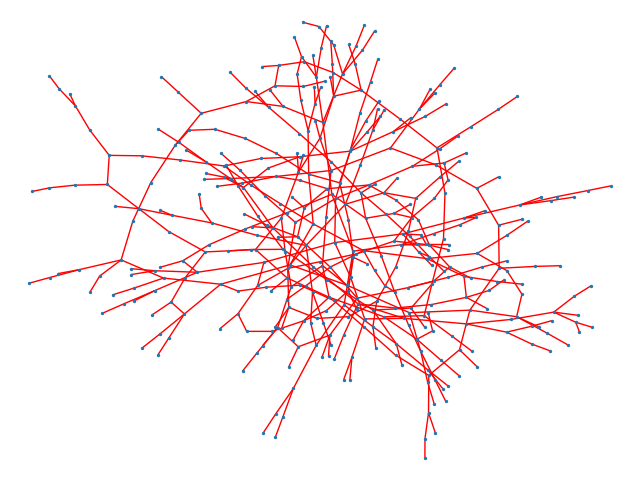
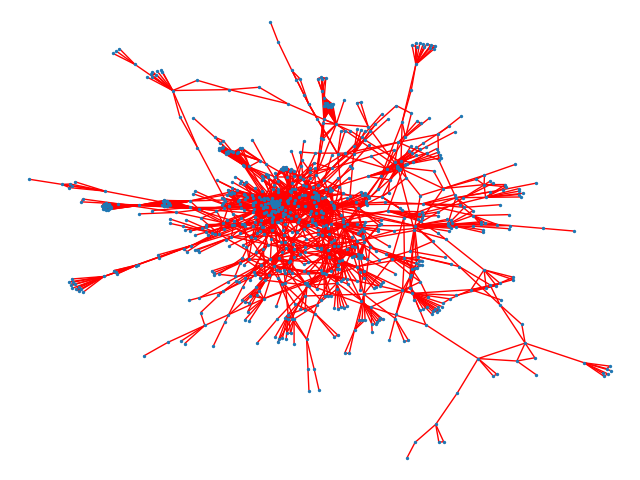
pictured

diff --git a/jarden_center/main_code/single-multiple-source/change_world/Conditional_experiment/Propagation_subgraph/many_methods/Use_uninfected_node.py b/jarden_center/main_code/single-multiple-source/change_world/Conditional_experiment/Propagation_subgraph/many_methods/Use_uninfected_node.py
@@ -195,11 +195,6 @@ class Satisfaction:
         # eccentricity_dict = nx.eccentricity(tempGraph)
 
         # return tempGraph  # 临时图生成
-
-
-
-
-
         #划分图区域，进行删除计划。
         G_temp = nx.Graph()
         G_temp = copy.deepcopy(tempGraph)
@@ -216,7 +211,7 @@ class Satisfaction:
         # 先做个简单分类。按照从大到小排序.分10档次吧。 #真的可以考虑时间，来分档次。
         sort_dict = defaultdict(list)
         for node_and_scale in node_scale:
-            Ten_digits = node_and_scale[1] * 100 // 10 //2
+            Ten_digits = node_and_scale[1] * 100 // 10 // 2
             sort_dict[Ten_digits].append(node_and_scale[0])
         print(sort_dict)
         sort_list = sorted(sort_dict.items(), key=lambda x: x[0], reverse=True)
@@ -235,10 +230,6 @@ class Satisfaction:
         print('node_subGraph', subGraph.number_of_nodes())
         print('edge_subGraph',subGraph.number_of_edges())
         #判断是否是连通图,
-        '''
-        1 为什么一般图总有一个巨分支？
-        2 而在3-regular树却有非常多的分支，多达66.我们的算法也许需要在同层之间也要加上边了。  
-        '''
 
 
 
@@ -337,7 +328,7 @@ class Satisfaction:
     def draw_picture(self,G,filename):
         nx.draw(G, node_size=2, edge_color='r')
         plt.savefig(filename+".png")
-        pass
+        plt.close()
 
 
 
@@ -384,12 +375,11 @@ class Satisfaction:
     def main(self):
         # initG = commons.get_networkByFile('../../../data/3_regular_tree_2000_data.txt')
         # initG = commons.get_networkByFile('../../../data/4_regular_tree_2000_data.txt')
-
-        initG = commons.get_networkByFile('../../../data/4_regular_graph_3000_data.txt')
+        # initG = commons.get_networkByFile('../../../data/4_regular_graph_3000_data.txt')
 
         # initG = commons.get_networkByFile('../../../data/treenetwork3000.txt')
 
-        # initG = commons.get_networkByFile('../../../data/CA-GrQc.txt')
+        initG = commons.get_networkByFile('../../../data/CA-GrQc.txt')
 
         max_sub_graph = commons.judge_data(initG)
         # source_list = product_sourceList(max_sub_graph, 2)
@@ -413,15 +403,10 @@ class Satisfaction:
         #我们抽取子图
         center_list = commons.revsitionAlgorithm_singlueSource(subinfectG)
 
-
-
         #实验一般的用的图。
 
         tmep_graph = commons.get_subGraph(infectG)
         center_list2 = commons.revsitionAlgorithm_singlueSource(tmep_graph)
-
-
-
 
         #真实感染图
         center_list1 = commons.revsitionAlgorithm_singlueSource(zhengchang_G)
@@ -439,7 +424,9 @@ class Satisfaction:
 
         print('我们抽取子图边数目', subinfectG.number_of_edges())
         print('一般实验图边数目', tmep_graph.number_of_edges())
+        print('一般实验图点数目',tmep_graph.number_of_nodes())
         print('真实感染图边数目',zhengchang_G.number_of_edges())
+        print('真实感染图    点数目', zhengchang_G.number_of_nodes())
 
         for center  in center_list:
             print('distan抽取子图',nx.shortest_path_length(max_sub_graph,source=center,target=source_list[0]))

diff --git a/jarden_center/main_code/single-multiple-source/change_world/Conditional_experiment/Propagation_subgraph/many_methods/test.py b/jarden_center/main_code/single-multiple-source/change_world/Conditional_experiment/Propagation_subgraph/many_methods/test.py
@@ -103,7 +103,7 @@ def plot_graph(porgration_node_list,porgration_edge_list):
     #根据node_list长度确定时间t。
         #
     for t in range(len(porgration_node_list)):
-
+        pass
 
 
 
